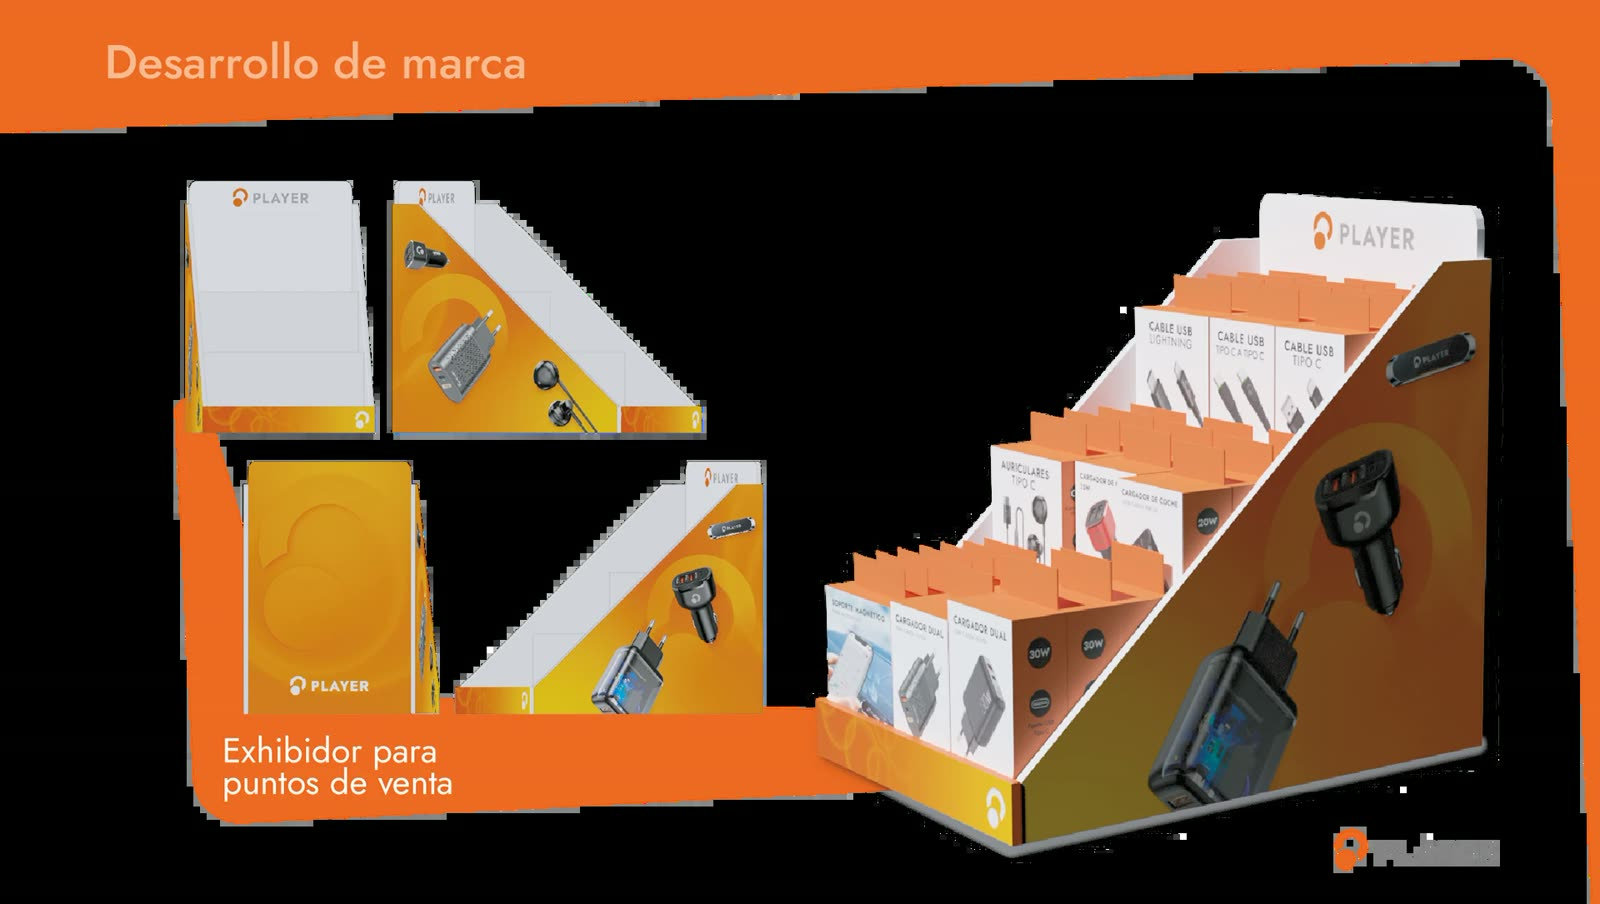
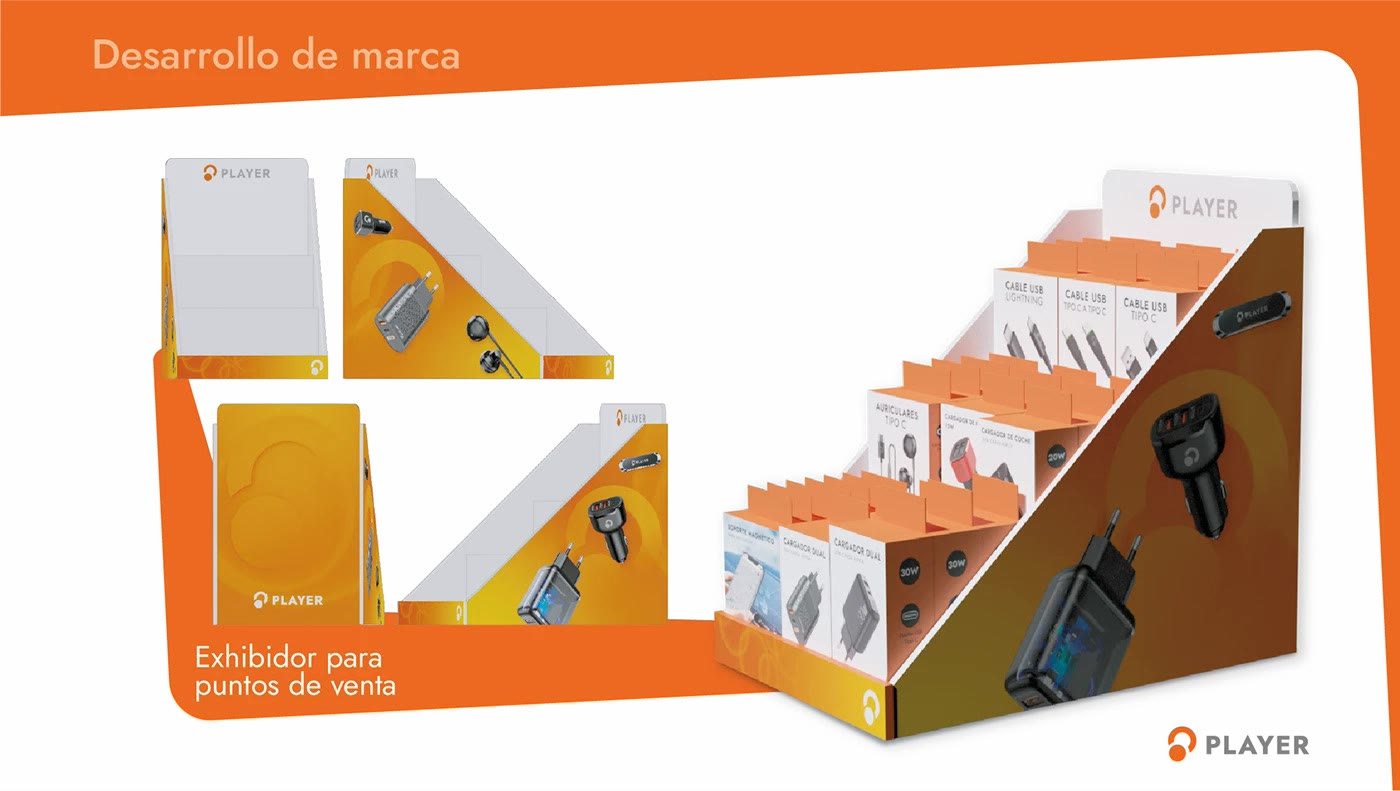
v85: láminas de Behance de Player con fondo blanco (los fondos transparentes se veían negros)

diff --git a/preview/casos/player.html b/preview/casos/player.html
@@ -15,8 +15,8 @@
   <link rel="preconnect" href="https://fonts.googleapis.com">
   <link rel="preconnect" href="https://fonts.gstatic.com" crossorigin>
   <link href="https://fonts.googleapis.com/css2?family=DM+Mono:wght@400;500&family=Space+Grotesk:wght@400;500;600;700&display=swap" rel="stylesheet">
-  <link rel="stylesheet" href="case.css?v=20261104-84">
-  <script src="case.js?v=20261104-84" defer></script>
+  <link rel="stylesheet" href="case.css?v=20261104-85">
+  <script src="case.js?v=20261104-85" defer></script>
 </head>
 <body>
   <a class="skip-link" href="#caso">Saltar al caso</a>
@@ -67,7 +67,7 @@
       </div>
       <div class="cs-grid">
         <figure><video data-loop src="../assets/video/player_behance.mp4" poster="../assets/video/player_behance_poster.jpg" muted loop playsinline preload="none" aria-label="Animación del logo de Player"></video><figcaption>Logo animado</figcaption></figure>
-        <figure><img src="../assets/casos/player/proceso.jpg" alt="Proceso de diseño de la identidad de Player" loading="lazy" width="1600" height="904"><figcaption>Proceso de diseño de la identidad</figcaption></figure>
+        <figure><img src="../assets/casos/player/proceso.jpg" alt="Proceso de diseño de la identidad de Player" loading="lazy" width="1400" height="791"><figcaption>Proceso de diseño de la identidad</figcaption></figure>
       </div>
     </section>
 
@@ -77,8 +77,8 @@
         <div><p class="cs-text">Prototipos de la línea completa y el packaging final que hoy está en góndola.</p></div>
       </div>
       <div class="cs-grid">
-        <figure><img src="../assets/casos/player/prototipos.jpg" alt="Prototipos de packaging de Player" loading="lazy" width="1600" height="904"><figcaption>Prototipos de packaging</figcaption></figure>
-        <figure><img src="../assets/casos/player/packaging.jpg" alt="Packaging final de Player" loading="lazy" width="1600" height="904"><figcaption>Packaging final</figcaption></figure>
+        <figure><img src="../assets/casos/player/prototipos.jpg" alt="Prototipos de packaging de Player" loading="lazy" width="1400" height="791"><figcaption>Prototipos de packaging</figcaption></figure>
+        <figure><img src="../assets/casos/player/packaging.jpg" alt="Packaging final de Player" loading="lazy" width="1400" height="791"><figcaption>Packaging final</figcaption></figure>
       </div>
     </section>
 
@@ -88,10 +88,10 @@
         <div><p class="cs-text">Exhibidores para puntos de venta, el feed de redes y la promoción en la web de Todegol.</p></div>
       </div>
       <div class="cs-grid">
-        <figure><img src="../assets/casos/player/exhibidor.jpg" alt="Exhibidores de Player para puntos de venta" loading="lazy" width="1600" height="904"><figcaption>Exhibidores para puntos de venta</figcaption></figure>
+        <figure><img src="../assets/casos/player/exhibidor.jpg" alt="Exhibidores de Player para puntos de venta" loading="lazy" width="1400" height="791"><figcaption>Exhibidores para puntos de venta</figcaption></figure>
         <figure class="card" style="--acc:#E9E6DF"><img src="../assets/casos/player/d1.webp" alt="Exhibidor de Player en 3D" loading="lazy" width="900" height="900"><figcaption>Exhibidor en 3D</figcaption></figure>
-        <figure><img src="../assets/casos/player/feed.jpg" alt="Feed de redes sociales de Player" loading="lazy" width="1600" height="904"><figcaption>Feed para redes sociales</figcaption></figure>
-        <figure><img src="../assets/casos/player/web.jpg" alt="Promoción de Player en la web de Todegol" loading="lazy" width="1600" height="904"><figcaption>Promoción en la web de Todegol</figcaption></figure>
+        <figure><img src="../assets/casos/player/feed.jpg" alt="Feed de redes sociales de Player" loading="lazy" width="1400" height="791"><figcaption>Feed para redes sociales</figcaption></figure>
+        <figure><img src="../assets/casos/player/web.jpg" alt="Promoción de Player en la web de Todegol" loading="lazy" width="1400" height="791"><figcaption>Promoción en la web de Todegol</figcaption></figure>
       </div>
     </section>
 

diff --git a/preview/index.html b/preview/index.html
@@ -55,9 +55,9 @@
   <link rel="preconnect" href="https://fonts.googleapis.com">
   <link rel="preconnect" href="https://fonts.gstatic.com" crossorigin>
   <link href="https://fonts.googleapis.com/css2?family=DM+Mono:wght@400;500&family=Space+Grotesk:wght@400;500;600;700&display=swap" rel="stylesheet">
-  <link rel="stylesheet" href="styles.css?v=20261104-84">
-  <script src="script.js?v=20261104-84" defer></script>
-  <script src="personaje.js?v=20261104-84" defer></script>
+  <link rel="stylesheet" href="styles.css?v=20261104-85">
+  <script src="script.js?v=20261104-85" defer></script>
+  <script src="personaje.js?v=20261104-85" defer></script>
 </head>
 <body>
   <canvas class="fluid-cursor" id="fluid-cursor" aria-hidden="true"></canvas>

diff --git a/preview/casos/atlas.html b/preview/casos/atlas.html
@@ -15,8 +15,8 @@
   <link rel="preconnect" href="https://fonts.googleapis.com">
   <link rel="preconnect" href="https://fonts.gstatic.com" crossorigin>
   <link href="https://fonts.googleapis.com/css2?family=DM+Mono:wght@400;500&family=Space+Grotesk:wght@400;500;600;700&display=swap" rel="stylesheet">
-  <link rel="stylesheet" href="case.css?v=20261104-84">
-  <script src="case.js?v=20261104-84" defer></script>
+  <link rel="stylesheet" href="case.css?v=20261104-85">
+  <script src="case.js?v=20261104-85" defer></script>
 </head>
 <body>
   <a class="skip-link" href="#caso">Saltar al caso</a>

diff --git a/preview/casos/branding.html b/preview/casos/branding.html
@@ -15,8 +15,8 @@
   <link rel="preconnect" href="https://fonts.googleapis.com">
   <link rel="preconnect" href="https://fonts.gstatic.com" crossorigin>
   <link href="https://fonts.googleapis.com/css2?family=DM+Mono:wght@400;500&family=Space+Grotesk:wght@400;500;600;700&display=swap" rel="stylesheet">
-  <link rel="stylesheet" href="case.css?v=20261104-84">
-  <script src="case.js?v=20261104-84" defer></script>
+  <link rel="stylesheet" href="case.css?v=20261104-85">
+  <script src="case.js?v=20261104-85" defer></script>
 </head>
 <body>
   <a class="skip-link" href="#caso">Saltar al caso</a>

diff --git a/preview/casos/etidol.html b/preview/casos/etidol.html
@@ -15,8 +15,8 @@
   <link rel="preconnect" href="https://fonts.googleapis.com">
   <link rel="preconnect" href="https://fonts.gstatic.com" crossorigin>
   <link href="https://fonts.googleapis.com/css2?family=DM+Mono:wght@400;500&family=Space+Grotesk:wght@400;500;600;700&display=swap" rel="stylesheet">
-  <link rel="stylesheet" href="case.css?v=20261104-84">
-  <script src="case.js?v=20261104-84" defer></script>
+  <link rel="stylesheet" href="case.css?v=20261104-85">
+  <script src="case.js?v=20261104-85" defer></script>
 </head>
 <body>
   <a class="skip-link" href="#caso">Saltar al caso</a>

diff --git a/preview/casos/ilustracion.html b/preview/casos/ilustracion.html
@@ -15,8 +15,8 @@
   <link rel="preconnect" href="https://fonts.googleapis.com">
   <link rel="preconnect" href="https://fonts.gstatic.com" crossorigin>
   <link href="https://fonts.googleapis.com/css2?family=DM+Mono:wght@400;500&family=Space+Grotesk:wght@400;500;600;700&display=swap" rel="stylesheet">
-  <link rel="stylesheet" href="case.css?v=20261104-84">
-  <script src="case.js?v=20261104-84" defer></script>
+  <link rel="stylesheet" href="case.css?v=20261104-85">
+  <script src="case.js?v=20261104-85" defer></script>
 </head>
 <body>
   <a class="skip-link" href="#caso">Saltar al caso</a>

diff --git a/preview/casos/jasypa.html b/preview/casos/jasypa.html
@@ -15,8 +15,8 @@
   <link rel="preconnect" href="https://fonts.googleapis.com">
   <link rel="preconnect" href="https://fonts.gstatic.com" crossorigin>
   <link href="https://fonts.googleapis.com/css2?family=DM+Mono:wght@400;500&family=Space+Grotesk:wght@400;500;600;700&display=swap" rel="stylesheet">
-  <link rel="stylesheet" href="case.css?v=20261104-84">
-  <script src="case.js?v=20261104-84" defer></script>
+  <link rel="stylesheet" href="case.css?v=20261104-85">
+  <script src="case.js?v=20261104-85" defer></script>
 </head>
 <body>
   <a class="skip-link" href="#caso">Saltar al caso</a>

diff --git a/preview/casos/mariano.html b/preview/casos/mariano.html
@@ -15,8 +15,8 @@
   <link rel="preconnect" href="https://fonts.googleapis.com">
   <link rel="preconnect" href="https://fonts.gstatic.com" crossorigin>
   <link href="https://fonts.googleapis.com/css2?family=DM+Mono:wght@400;500&family=Space+Grotesk:wght@400;500;600;700&display=swap" rel="stylesheet">
-  <link rel="stylesheet" href="case.css?v=20261104-84">
-  <script src="case.js?v=20261104-84" defer></script>
+  <link rel="stylesheet" href="case.css?v=20261104-85">
+  <script src="case.js?v=20261104-85" defer></script>
 </head>
 <body>
   <a class="skip-link" href="#caso">Saltar al caso</a>

diff --git a/preview/casos/todegol.html b/preview/casos/todegol.html
@@ -15,8 +15,8 @@
   <link rel="preconnect" href="https://fonts.googleapis.com">
   <link rel="preconnect" href="https://fonts.gstatic.com" crossorigin>
   <link href="https://fonts.googleapis.com/css2?family=DM+Mono:wght@400;500&family=Space+Grotesk:wght@400;500;600;700&display=swap" rel="stylesheet">
-  <link rel="stylesheet" href="case.css?v=20261104-84">
-  <script src="case.js?v=20261104-84" defer></script>
+  <link rel="stylesheet" href="case.css?v=20261104-85">
+  <script src="case.js?v=20261104-85" defer></script>
 </head>
 <body>
   <a class="skip-link" href="#caso">Saltar al caso</a>
